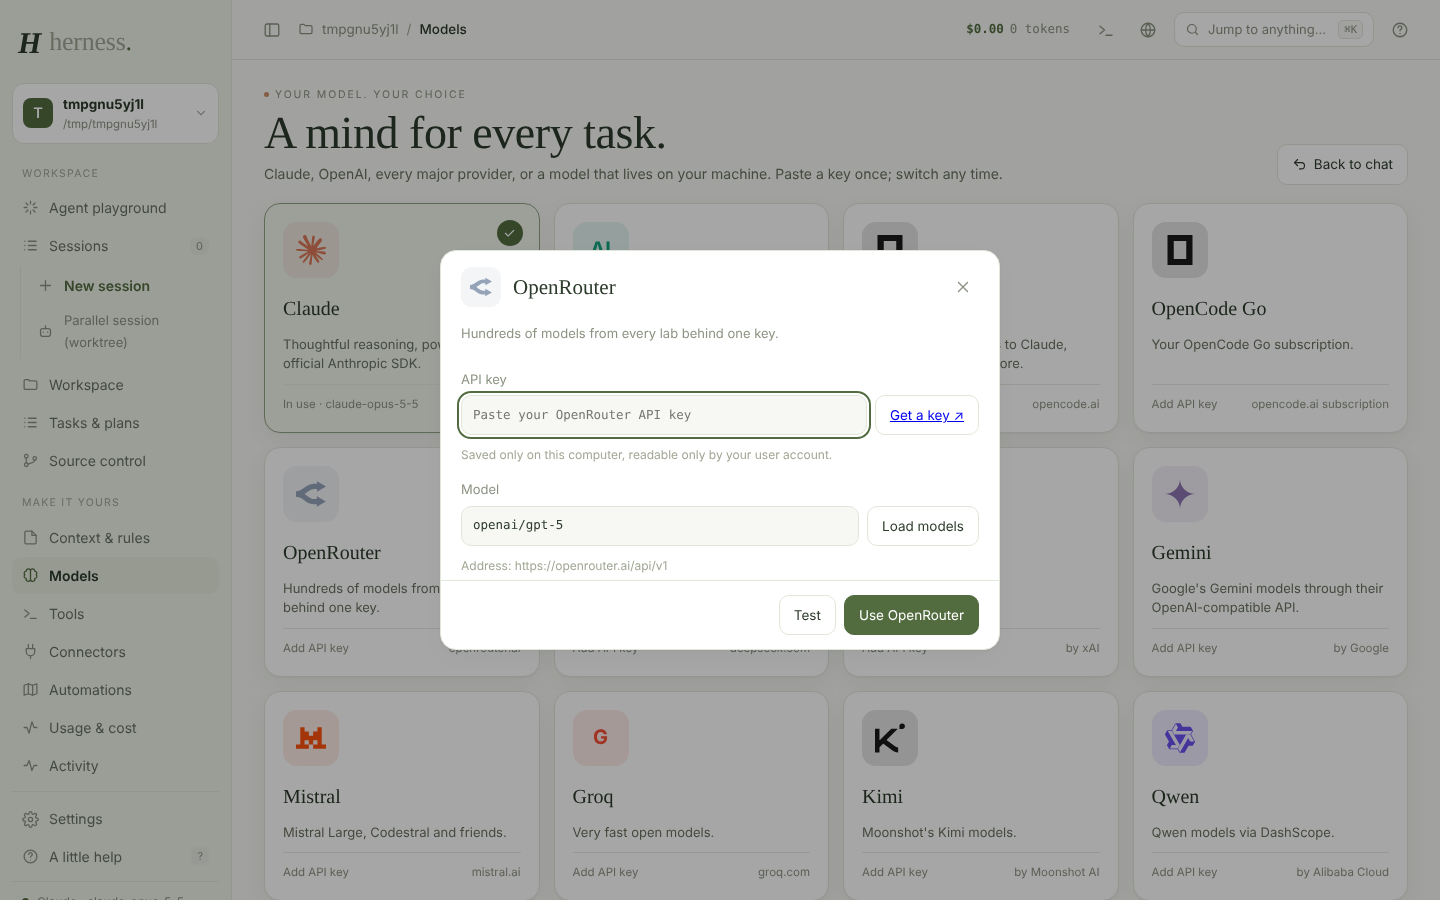
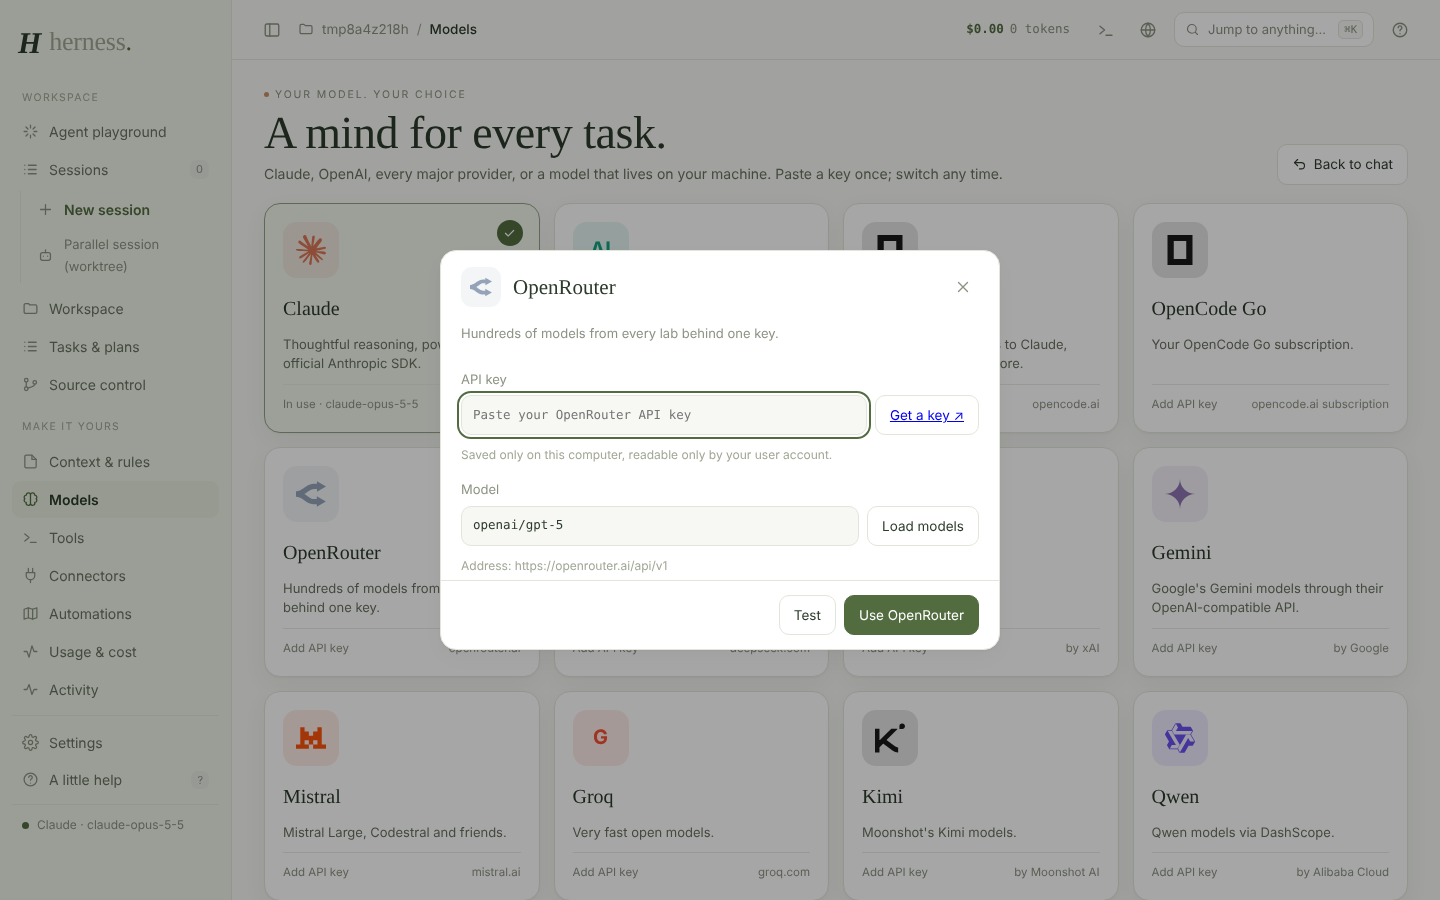
Remove the duplicate workspace box from the sidebar (Run overview shows the workspace and opens the folder chooser)
Claude-Session: https://claude.ai/code/session_01AvqsqpDFjBC8YmDhkXMhAb

diff --git a/myagent/static/index.html b/myagent/static/index.html
@@ -490,6 +490,8 @@ body.models-open #modelsView { display: block !important; }
 .modelchip:hover > svg, .modelchip:focus-visible > svg, .modelchip.open > svg { max-width: 16px; opacity: 1; margin: 0 6px 0 8px; }
 #planBtn { height: 40px; border-radius: 12px; background: var(--panel); }
 #provMenu { left: 0; }
+#side .brand { padding-bottom: 6px; }
+#railWsBtn { cursor: pointer; } #railWsBtn:hover b { color: var(--accent); }
 </style>
 </head>
 <body>
@@ -523,7 +525,7 @@ body.models-open #modelsView { display: block !important; }
 
 <aside id="side" aria-label="Navigation">
   <div class="brand"><div class="logo serif" aria-hidden="true">H</div><b class="serif">herness<span>.</span></b></div>
-  <button class="wsbox" id="wsBox" title="Workspace folder"><span class="wsav">M</span><span class="wst"><b id="wsName">My workspace</b><small id="wsPath">Personal workspace</small></span><svg><use href="#i-chev"/></svg></button>
+  <button class="wsbox" id="wsBox" title="Workspace folder" hidden><span class="wsav">M</span><span class="wst"><b id="wsName">My workspace</b><small id="wsPath">Personal workspace</small></span><svg><use href="#i-chev"/></svg></button>
   <div class="section">Workspace</div>
   <button class="navbtn on" id="navPlay"><svg><use href="#i-spark"/></svg>Agent playground</button>
   <button class="navbtn" id="navSessions"><svg><use href="#i-list"/></svg>Sessions<em id="sessCount">0</em></button>

diff --git a/tests/ui_audit.js b/tests/ui_audit.js
@@ -65,8 +65,8 @@ async function overlaps(pg, label) {
       }
       await pg.click('#navUsage'); check('Usage & cost shows the cost', (await pg.innerText('#log')).includes('cost'));
       await pg.click('#navHelp'); check('A little help opens shortcuts', await pg.isVisible('#keys[open]')); await pg.click('#closeKeys');
-      await pg.click('#wsBox'); await pg.waitForTimeout(300);
-      check('Workspace box opens the folder chooser', await pg.isVisible('#folderPicker[open]'));
+      await pg.click('#railWsBtn'); await pg.waitForTimeout(300);
+      check('Workspace row opens the folder chooser', await pg.isVisible('#folderPicker[open]'));
       if (await pg.isVisible('#folderPicker[open]')) { await overlaps(pg, 'folder chooser'); await pg.keyboard.press('Escape'); }
       // --- top bar
       await pg.click('#jumpBtn'); check('Jump to anything opens the palette', await pg.isVisible('#palette[open]'));
